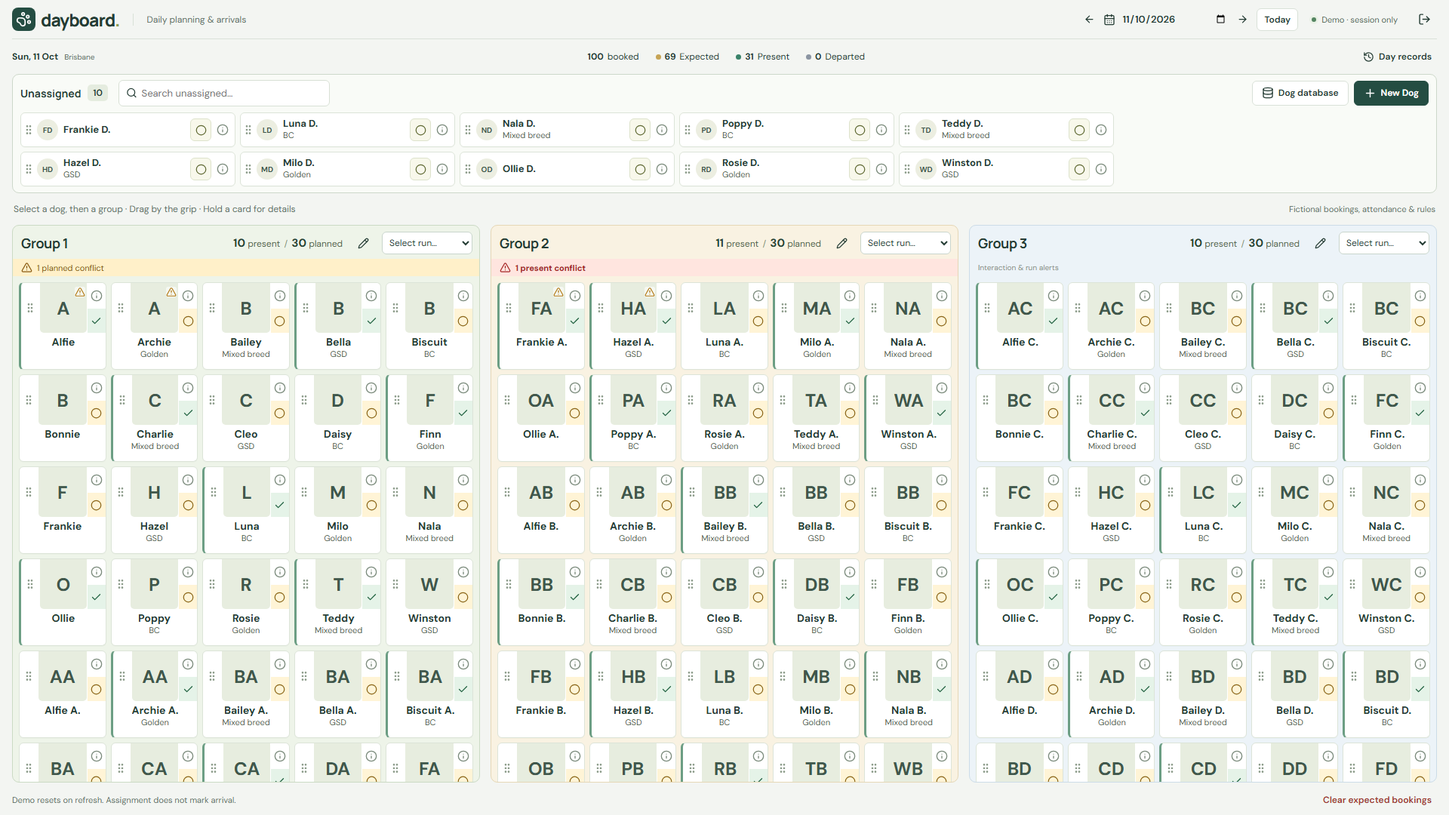
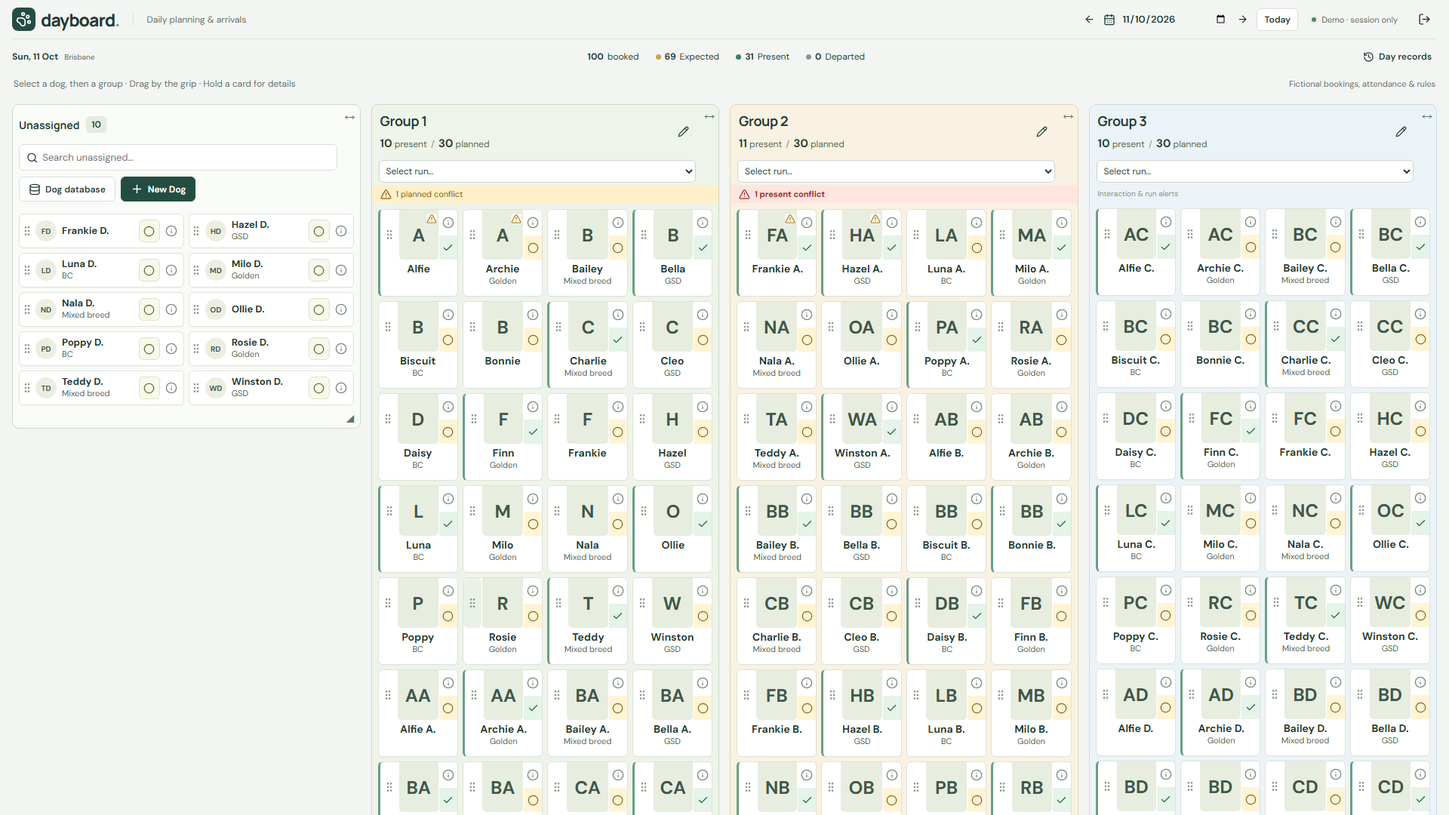
Add resizable desktop panels with automatic card reflow

diff --git a/src/Planner.tsx b/src/Planner.tsx
@@ -22,6 +22,7 @@ import { DogEditor } from './components/DogEditor';
 import { PhotoEditor } from './components/PhotoEditor';
 import { matchesDog, shortDogNames } from './dogLabels';
 import { GroupLane } from './components/GroupLane';
+import { PanelResize, usePanelSizes } from './components/PanelResize';
 
 function DestinationTab({ id, name, active, moving, choose, summary }: {
   id: string; name: string; active: boolean; moving: boolean; choose: () => void; summary: string;
@@ -33,13 +34,13 @@ function DestinationTab({ id, name, active, moving, choose, summary }: {
     <span>{name}</span><small>{summary}</small>
   </button>;
 }
-function Unassigned({ count, search, setSearch, selected, move, children, tools }: {
+function Unassigned({ count, search, setSearch, selected, move, children, tools, resize, style }: {
   count: number; search: string; setSearch: (s: string) => void; selected: boolean;
-  move: () => void; children: ReactNode; tools: ReactNode;
+  move: () => void; children: ReactNode; tools: ReactNode; resize: ReactNode; style: CSSProperties;
 }) {
   const { setNodeRef, isOver } = useDroppable({ id: 'unassigned' });
   return <section ref={setNodeRef} className={`unassigned ${selected ? 'valid-target' : ''} ${isOver ? 'drop-over' : ''}`}
-    data-testid="lane-unassigned" onClick={event => {
+    data-testid="lane-unassigned" data-panel-id="unassigned" style={style} onClick={event => {
       if (selected && !(event.target as HTMLElement).closest('button,input,article')) move();
     }}>
     <div className="unassigned-toolbar">
@@ -52,6 +53,7 @@ function Unassigned({ count, search, setSearch, selected, move, children, tools 
       <div className="directory-tools">{tools}</div>
     </div>
     <div className="unassigned-cards">{children}</div>
+    {resize}
   </section>;
 }
 function Rename({ group, submit, close, editable }: {
@@ -76,6 +78,7 @@ const collision: CollisionDetection = args => {
 
 export function Planner({ repo, onExit }: { repo: Repository; onExit: () => void }) {
   const [date, setDate] = useState(todayBrisbane());
+  const panels = usePanelSizes();
   const { snapshot: state, profile, connection, busy, error, setError, run, refresh, editable } = usePlanner(repo, date);
   const [view, setView] = useState('group-1');
   const [search, setSearch] = useState('');
@@ -196,49 +199,53 @@ export function Planner({ repo, onExit }: { repo: Repository; onExit: () => void
       <DndContext sensors={sensors} collisionDetection={collision}
         onDragStart={event => { setSelection(null); setDrag(state.assignments.find(a => a.id === event.active.id) || null); }}
         onDragCancel={() => setDrag(null)} onDragEnd={onDrop}>
-        <Unassigned count={totals.unassigned} search={search} setSearch={setSearch} selected={!!selection && editable}
-          move={() => { if (selection) void move(selection, null); }}
-          tools={<><button onClick={() => setDatabase(true)}><Database size={16}/>Dog database</button>
-            <button className="primary" disabled={!editable} onClick={() => setEditor({})}><Plus size={17}/>New Dog</button></>}>
-          {cards(null)}
-        </Unassigned>
-        <div className={`selection-bar ${selection ? 'has-selection' : ''}`}>
-          <span>{selection ? <><strong>{selectedName}</strong> selected · choose a destination</> : 'Select a dog, then a group · Drag by the grip · Hold a card for details'}</span>
-          {selection && <button className="text-button" aria-label="Cancel selection" onClick={() => setSelection(null)}><X size={14}/>Cancel</button>}
-          <small>{repo.demo ? 'Fictional bookings, attendance & rules' : 'Synthetic pilot · no real records'}</small>
+        <div className="lane-layout" ref={panels.layoutRef} style={panels.columns(['unassigned', ...state.groups.map(g => g.group_id)])}>
+          <Unassigned style={panels.style('unassigned')} resize={<><PanelResize id="unassigned" name="Unassigned" resize={panels.resize}/><PanelResize id="unassigned" name="Unassigned" resize={panels.resize} widthOnly/></>} count={totals.unassigned} search={search} setSearch={setSearch} selected={!!selection && editable}
+            move={() => { if (selection) void move(selection, null); }}
+            tools={<><button onClick={() => setDatabase(true)}><Database size={16}/>Dog database</button>
+              <button className="primary" disabled={!editable} onClick={() => setEditor({})}><Plus size={17}/>New Dog</button></>}>
+            {cards(null)}
+          </Unassigned>
+          <div className={`selection-bar ${selection ? 'has-selection' : ''}`}>
+            <span>{selection ? <><strong>{selectedName}</strong> selected · choose a destination</> : 'Select a dog, then a group · Drag by the grip · Hold a card for details'}</span>
+            {selection && <button className="text-button" aria-label="Cancel selection" onClick={() => setSelection(null)}><X size={14}/>Cancel</button>}
+            <small>{repo.demo ? 'Fictional bookings, attendance & rules' : 'Synthetic pilot · no real records'}</small>
+          </div>
+          <nav className={`group-tabs ${selection || drag ? 'moving' : ''}`} aria-label="Group views and destinations">
+            <DestinationTab id="unassigned" name="Unassigned" active={view === 'unassigned'} moving={!!selection || !!drag}
+              summary={String(totals.unassigned)} choose={() => selection ? void move(selection, null) : setView('unassigned')}/>
+            {state.groups.map(g => {
+              const c = groupCounts(state.assignments, g.group_id);
+              return <DestinationTab key={g.group_id} id={g.group_id} name={g.displayed_name} active={view === g.group_id}
+                moving={!!selection || !!drag} summary={`${c.present} / ${c.planned}`}
+                choose={() => selection ? void move(selection, g.group_id) : setView(g.group_id)}/>;
+            })}
+          </nav>
+          <main className={`group-board ${view === 'unassigned' ? 'view-unassigned' : ''}`}
+            style={{ '--group-count': state.groups.length } as CSSProperties}>
+            {state.groups.map(g => {
+              const c = groupCounts(state.assignments, g.group_id);
+              return <div key={g.group_id} className={`group-wrapper ${view === g.group_id ? 'current-view' : ''}`} data-panel-id={g.group_id} style={panels.style(g.group_id)}>
+                <GroupLane id={g.group_id} name={g.displayed_name} order={g.display_order} present={c.present} planned={c.planned}
+                  selected={!!selection && editable} dragging={!!drag} destination={() => { if (selection) void move(selection, g.group_id); }}
+                  rename={manager && editable ? () => setRename(rename === g.group_id ? null : g.group_id) : undefined}
+                  warnings={[...groupConflicts(state.assignments, g.group_id, rules), ...runWarnings(state.assignments, state.dogs, g)]}
+                  showWarnings={() => setAlertGroup(g.group_id)}
+                  runSelector={<select className="run-select" aria-label={`Run for ${g.displayed_name}`} value={g.run || ''} disabled={!editable}
+                    onChange={e => void run(() => repo.assignRun(state.day.id, g.group_id, (e.target.value || null) as Run | null, g.run_version || 1))}>
+                    <option value="">Select run…</option>{runs.map(r => <option key={r}>{r}</option>)}
+                  </select>}
+                  editor={rename === g.group_id ? <Rename group={g} editable={editable} close={() => setRename(null)}
+                    submit={(name, future) => run(() => repo.rename(state.day.id, g.group_id, name, future))}/> : undefined}>
+                  {cards(g.group_id)}
+                </GroupLane>
+                <PanelResize id={g.group_id} name={g.displayed_name} resize={panels.resize}/>
+                <PanelResize id={g.group_id} name={g.displayed_name} resize={panels.resize} widthOnly/>
+              </div>;
+            })}
+            <p className="unassigned-view-note">Choose a dog in the strip above, then tap its destination. Swipe the strip to see more bookings.</p>
+          </main>
         </div>
-        <nav className={`group-tabs ${selection || drag ? 'moving' : ''}`} aria-label="Group views and destinations">
-          <DestinationTab id="unassigned" name="Unassigned" active={view === 'unassigned'} moving={!!selection || !!drag}
-            summary={String(totals.unassigned)} choose={() => selection ? void move(selection, null) : setView('unassigned')}/>
-          {state.groups.map(g => {
-            const c = groupCounts(state.assignments, g.group_id);
-            return <DestinationTab key={g.group_id} id={g.group_id} name={g.displayed_name} active={view === g.group_id}
-              moving={!!selection || !!drag} summary={`${c.present} / ${c.planned}`}
-              choose={() => selection ? void move(selection, g.group_id) : setView(g.group_id)}/>;
-          })}
-        </nav>
-        <main className={`group-board ${view === 'unassigned' ? 'view-unassigned' : ''}`}
-          style={{ '--group-count': state.groups.length } as CSSProperties}>
-          {state.groups.map(g => {
-            const c = groupCounts(state.assignments, g.group_id);
-            return <div key={g.group_id} className={`group-wrapper ${view === g.group_id ? 'current-view' : ''}`}>
-              <GroupLane id={g.group_id} name={g.displayed_name} order={g.display_order} present={c.present} planned={c.planned}
-                selected={!!selection && editable} dragging={!!drag} destination={() => { if (selection) void move(selection, g.group_id); }}
-                rename={manager && editable ? () => setRename(rename === g.group_id ? null : g.group_id) : undefined}
-                warnings={[...groupConflicts(state.assignments, g.group_id, rules), ...runWarnings(state.assignments, state.dogs, g)]}
-                showWarnings={() => setAlertGroup(g.group_id)}
-                runSelector={<select className="run-select" aria-label={`Run for ${g.displayed_name}`} value={g.run || ''} disabled={!editable}
-                  onChange={e => void run(() => repo.assignRun(state.day.id, g.group_id, (e.target.value || null) as Run | null, g.run_version || 1))}>
-                  <option value="">Select run…</option>{runs.map(r => <option key={r}>{r}</option>)}
-                </select>}
-                editor={rename === g.group_id ? <Rename group={g} editable={editable} close={() => setRename(null)}
-                  submit={(name, future) => run(() => repo.rename(state.day.id, g.group_id, name, future))}/> : undefined}>
-                {cards(g.group_id)}
-              </GroupLane>
-            </div>;
-          })}
-          <p className="unassigned-view-note">Choose a dog in the strip above, then tap its destination. Swipe the strip to see more bookings.</p>
-        </main>
         <DragOverlay style={{ pointerEvents: 'none' }}>{drag && <div className="drag-preview"><Avatar dog={dogsById.get(drag.dog_id)!}/><strong>{dogsById.get(drag.dog_id)!.name}</strong><span>{drag.attendance_status}</span></div>}</DragOverlay>
       </DndContext>}
     <footer className="planner-footer"><span>{repo.demo ? 'Demo resets on refresh.' : 'Synthetic shared pilot.'} Assignment does not mark arrival.</span>

diff --git a/tests/e2e/panels.spec.ts b/tests/e2e/panels.spec.ts
@@ -1,0 +1,87 @@
+import { test, expect } from '@playwright/test';
+import { mkdir } from 'node:fs/promises';
+async function open(page: import('@playwright/test').Page, scenario='planned') {
+  await page.setViewportSize({width:1920,height:1080});
+  await page.goto('/'); await page.getByLabel('Demo scenario').selectOption(scenario);
+  await page.getByRole('button',{name:'Explore the demo'}).click();
+  await expect(page.getByTestId('booked-count')).toHaveText('100');
+}
+const geometry = (page: import('@playwright/test').Page) => page.evaluate(() => {
+  const panels=[...document.querySelectorAll<HTMLElement>('[data-panel-id]')];
+  return panels.map(p=>{const r=p.getBoundingClientRect(); const cards=[...p.querySelectorAll('.dog-card')].map(c=>c.getBoundingClientRect()); const grid=p.querySelector('.group-grid,.unassigned-cards')!;
+    return {id:p.dataset.panelId,width:r.width,left:r.left,right:r.right,height:r.height,bottom:r.bottom,columns:new Set(cards.map(c=>Math.round(c.left))).size,allInside:cards.every(c=>c.bottom<=r.bottom&&c.left>=r.left&&c.right<=r.right),overflow:getComputedStyle(grid).overflowY};});
+});
+test('desktop pointer resizing redistributes space, wraps cards and retains every dog',async({page})=>{
+  await open(page);
+  const before=await geometry(page);
+  const handle=page.getByRole('button',{name:'Resize width of Group 1',exact:true});
+  const box=(await handle.boundingBox())!;
+  await page.mouse.move(box.x+10,box.y+10); await page.mouse.down();
+  await page.mouse.move(box.x+340,box.y+10,{steps:12}); await page.mouse.up();
+  const after=await geometry(page);
+  expect(after[1].width).toBeGreaterThan(before[1].width+250);
+  expect(after[1].columns).toBeGreaterThan(before[1].columns);
+  for(const i of [0,2,3]) expect(after[i].width).toBeLessThan(before[i].width);
+  for(let i=1;i<after.length;i++) expect(after[i].left).toBeGreaterThanOrEqual(after[i-1].right);
+  expect(after.every(p=>p.allInside&&p.overflow==='visible')).toBe(true);
+  expect(await page.locator('.dog-card').count()).toBe(100);
+  expect(await page.evaluate(()=>document.documentElement.scrollWidth<=innerWidth)).toBe(true);
+  await mkdir('docs/screenshots',{recursive:true});
+  await page.screenshot({path:'docs/screenshots/resizable-desktop.png',fullPage:true});
+});
+test('Unassigned grows downwards and page scrolling exposes every booking',async({page})=>{
+  await open(page,'morning');
+  const before=(await geometry(page))[0];
+  expect(before.allInside).toBe(true); expect(before.height).toBeGreaterThan(2000);
+  expect(await page.evaluate(()=>document.documentElement.scrollHeight>innerHeight)).toBe(true);
+  const handle=page.getByRole('button',{name:'Resize width of Unassigned',exact:true});
+  await handle.focus(); await page.keyboard.press('ArrowRight');
+  expect((await geometry(page))[0].width).toBeGreaterThan(before.width);
+  await page.getByLabel('Search unassigned dogs').fill('Alfie');
+  const small=(await geometry(page))[0];
+  expect(small.height).toBeLessThan(before.height);
+  await page.getByLabel('Search unassigned dogs').fill('');
+  expect((await geometry(page))[0].height).toBeGreaterThan(small.height);
+  await page.getByTestId('lane-unassigned').locator('.dog-card').last().scrollIntoViewIfNeeded();
+  await expect(page.getByTestId('lane-unassigned').locator('.dog-card').last()).toBeVisible();
+  expect(await page.evaluate(()=>scrollY)).toBeGreaterThan(0);
+});
+test('vertical resizing sets a floor while additional dogs automatically extend a group',async({page})=>{
+  await open(page,'morning');
+  const handle=page.getByRole('button',{name:'Resize Group 1',exact:true});
+  const initial=(await geometry(page))[1].height;
+  await handle.focus(); await page.keyboard.press('ArrowDown');
+  expect((await geometry(page))[1].height).toBeGreaterThanOrEqual(initial+31);
+  for(const name of ['Alfie','Archie','Bella','Biscuit','Bonnie','Charlie','Cleo','Daisy','Finn','Frankie']) {
+    await page.getByRole('button',{name:'Select '+name,exact:true}).click();
+    await page.getByRole('button',{name:'Move selected dog to Group 1',exact:true}).click();
+  }
+  const group=(await geometry(page))[1]; expect(group.height).toBeGreaterThan(initial+32); expect(group.allInside).toBe(true);
+  await expect(page.getByTestId('present-count')).toHaveText('0');
+});
+test('desktop resize preferences do not affect mobile tabs and horizontal strip',async({page})=>{
+  await open(page);
+  await page.getByRole('button',{name:'Resize Group 1',exact:true}).focus(); await page.keyboard.press('ArrowRight');
+  await page.setViewportSize({width:390,height:844});
+  await expect(page.locator('.panel-resize:visible')).toHaveCount(0);
+  await expect(page.getByRole('navigation',{name:'Group views and destinations'})).toBeVisible();
+  expect(await page.getByTestId('lane-unassigned').evaluate(p=>getComputedStyle(p.querySelector('.unassigned-cards')!).gridAutoFlow)).toBe('column');
+  expect(await page.evaluate(()=>document.documentElement.scrollWidth<=innerWidth)).toBe(true);
+  await page.getByRole('button',{name:'Select Archie',exact:true}).click();
+  await page.getByRole('button',{name:'Send selected dog to Group 2',exact:true}).click();
+  await expect(page.getByTestId('lane-group-2').getByTestId('card-Archie')).toBeVisible();
+});
+
+test('extreme resizing and smaller desktop windows preserve bounds and card placements',async({page})=>{
+  await open(page,'four');
+  const handle=page.getByRole('button',{name:'Resize width of Group 1',exact:true});
+  await handle.focus();
+  for(let i=0;i<35;i++) await page.keyboard.press('ArrowRight');
+  for(const width of [1920,1100,900,761]) {
+    await page.setViewportSize({width,height:1080});
+    expect(await page.evaluate(()=>document.documentElement.scrollWidth<=innerWidth)).toBe(true);
+    const panels=await geometry(page); expect(panels.every(p=>p.allInside)).toBe(true);
+    for(let i=1;i<panels.length;i++) expect(panels[i].left).toBeGreaterThanOrEqual(panels[i-1].right);
+    await expect(page.locator('.dog-card')).toHaveCount(100);
+  }
+});

diff --git a/src/components/PanelResize.tsx b/src/components/PanelResize.tsx
@@ -1,0 +1,60 @@
+import { useRef, useState } from 'react';
+import type { CSSProperties } from 'react';
+
+// Widths belong to this browser's board view, never to shared dog placements.
+export function usePanelSizes() {
+  const layoutRef = useRef<HTMLDivElement>(null);
+  const [widths, setWidths] = useState<Record<string, number>>({});
+  const [heights, setHeights] = useState<Record<string, number>>({});
+  const resize = (id: string, dx: number, dy: number, initial?: { widths: number[]; height: number }) => {
+    const layout = layoutRef.current;
+    if (!layout) return;
+    const panels = Array.from(layout.querySelectorAll<HTMLElement>('[data-panel-id]'));
+    const index = panels.findIndex(panel => panel.dataset.panelId === id);
+    if (index < 0) return;
+    const current = initial?.widths || panels.map(panel => panel.getBoundingClientRect().width);
+    const total = current.reduce((sum, width) => sum + width, 0);
+    const minimum = Math.min(180, total / panels.length);
+    const target = Math.max(minimum, Math.min(total - minimum * (panels.length - 1), current[index] + dx));
+    // Redistribute only the spare space, preserving every neighbour's minimum.
+    const spare = current.reduce((sum, width, i) => sum + (i === index ? 0 : Math.max(0, width - minimum)), 0);
+    const remaining = total - target - minimum * (panels.length - 1);
+    setWidths(Object.fromEntries(panels.map((panel, i) => [panel.dataset.panelId!, i === index ? target : minimum + remaining * (spare ? Math.max(0, current[i] - minimum) / spare : 1 / (panels.length - 1))])));
+    const height = initial?.height ?? panels[index].getBoundingClientRect().height;
+    if (dy) setHeights(previous => ({ ...previous, [id]: Math.max(180, height + dy) }));
+  };
+  const style = (id: string): CSSProperties => ({ '--panel-min-height': heights[id] ? heights[id] + 'px' : undefined } as CSSProperties);
+  const columns = (ids: string[]): CSSProperties => {
+    const existing = Object.values(widths);
+    const fallback = existing.length ? existing.reduce((sum, width) => sum + width, 0) / existing.length : 1;
+    return { '--panel-columns': ids.map(id => `minmax(min(180px, calc((100vw - 32px - ${14 * (ids.length - 1)}px) / ${ids.length})), ${widths[id] || fallback}fr)`).join(' ') } as CSSProperties;
+  };
+  return { layoutRef, resize, style, columns };
+}
+
+export function PanelResize({ id, name, resize, widthOnly = false }: {
+  id: string; name: string; resize: ReturnType<typeof usePanelSizes>['resize']; widthOnly?: boolean;
+}) {
+  const start = useRef<{ x: number; y: number; widths: number[]; height: number } | null>(null);
+  return <button className={`panel-resize ${widthOnly ? 'panel-width-resize' : ''}`} aria-label={`Resize ${widthOnly ? 'width of ' : ''}${name}`}
+    title={widthOnly ? 'Drag sideways to resize width. Left and right arrow keys also resize.' : 'Drag to resize. Arrow keys adjust width and height.'}
+    onClick={event => event.stopPropagation()}
+    onPointerDown={event => {
+      if (event.button !== 0) return;
+      event.preventDefault(); event.stopPropagation();
+      const panel = event.currentTarget.closest<HTMLElement>('[data-panel-id]')!;
+      const layout = panel.closest('.lane-layout')!;
+      start.current = { x: event.clientX, y: event.clientY, widths: Array.from(layout.querySelectorAll<HTMLElement>('[data-panel-id]')).map(p => p.getBoundingClientRect().width), height: panel.getBoundingClientRect().height };
+      event.currentTarget.setPointerCapture(event.pointerId);
+    }}
+    onPointerMove={event => {
+      if (start.current) resize(id, event.clientX - start.current.x, widthOnly ? 0 : event.clientY - start.current.y, start.current);
+    }}
+    onPointerUp={event => { start.current = null; if (event.currentTarget.hasPointerCapture(event.pointerId)) event.currentTarget.releasePointerCapture(event.pointerId); }}
+    onPointerCancel={() => { start.current = null; }}
+    onLostPointerCapture={() => { start.current = null; }}
+    onKeyDown={event => {
+      const steps: Record<string, [number, number]> = { ArrowLeft: [-32, 0], ArrowRight: [32, 0], ArrowUp: [0, -32], ArrowDown: [0, 32] };
+      if (steps[event.key] && (!widthOnly || event.key === 'ArrowLeft' || event.key === 'ArrowRight')) { event.preventDefault(); event.stopPropagation(); resize(id, ...steps[event.key]); }
+    }}><span aria-hidden="true">{widthOnly ? '↔' : '◢'}</span></button>;
+}

diff --git a/src/styles.css b/src/styles.css
@@ -269,3 +269,38 @@ dialog footer { display:flex; justify-content:flex-end; gap:8px; margin-top:20px
   .database-row { flex-wrap:wrap; }
   .database-row strong { flex-basis:calc(100% - 45px); }
 }
+
+
+
+/* Desktop panels share the available width and grow with their contents. */
+.lane-layout { display:contents; }
+.panel-resize { display:none; }
+@media(min-width:761px) {
+  .planner-shell { height:auto; min-height:100dvh; }
+  .lane-layout { display:grid; grid-template-columns:var(--panel-columns); gap:14px; align-items:start; flex:1; }
+  .lane-layout > .selection-bar { grid-column:1 / -1; grid-row:1; }
+  .lane-layout > .unassigned, .lane-layout .group-wrapper { grid-row:2; min-width:0; position:relative; min-height:var(--panel-min-height, 240px); }
+  .lane-layout > .unassigned { grid-column:1; padding-bottom:22px; }
+  .lane-layout > .group-board { display:contents; }
+  .lane-layout .group-lane { height:auto; min-height:var(--panel-min-height, 240px); padding-bottom:22px; }
+  .lane-layout .group-grid, .lane-layout .unassigned-cards { grid-auto-flow:row; grid-template-rows:none; grid-auto-columns:auto; overflow:visible; min-height:0; align-content:start; }
+  .lane-layout .group-grid { grid-template-columns:repeat(auto-fit,minmax(min(100%,100px),1fr)); }
+  .lane-layout .unassigned-cards { grid-template-columns:repeat(auto-fit,minmax(min(100%,210px),1fr)); padding:8px; }
+  .lane-layout .strip-empty { grid-column:1 / -1; grid-row:auto; width:auto; max-width:100%; padding:12px 0; }
+  .lane-layout .unassigned-toolbar { flex-wrap:wrap; gap:8px; padding:8px; }
+  .lane-layout .unassigned .search { width:100%; }
+  .lane-layout .directory-tools { flex-wrap:wrap; margin-left:0; }
+  .lane-layout .group-heading { flex-wrap:wrap; }
+  .lane-layout .group-destination { flex-direction:column; align-items:flex-start; }
+  .lane-layout .run-select { width:100%; }
+  .lane-layout .warning-bar { height:auto; min-height:23px; }
+  .panel-resize { display:flex; position:absolute; right:2px; bottom:2px; width:22px; height:20px; min-height:20px; padding:0; border:0; background:transparent; color:#637369; cursor:nwse-resize; touch-action:none; user-select:none; z-index:2; }
+  .panel-resize:hover { background:#ffffffaa; }
+}
+
+@media(min-width:761px) {
+  .lane-layout .group-heading, .lane-layout .unassigned-toolbar { padding-right:30px; }
+  .panel-width-resize { top:5px; bottom:auto; cursor:ew-resize; }
+}
+
+@media(min-width:761px) { .lane-layout .indicator-slot:empty { display:none; } }

diff --git a/docs/WORKFLOW.md b/docs/WORKFLOW.md
@@ -50,9 +50,10 @@ This iteration has deterministic, explicitly fictional pair rules and handling n
 
 ### Layout
 
-- Compact top area: unassigned-only search, separate database search/access, visible **+ New Dog**, and an unassigned card strip.
-- Three tall side-by-side group columns on desktop. Render from group data; support a fourth without hardcoded UI branches.
-- Responsive photo-first tile grids: five columns per group at 1920px with three groups, two columns at 390px. Legible short names, optional compact breed labels, warning/marker icons, arrival action and visible selection/drag states. Full names/breeds remain in details; repeated short names gain an initial and, if needed, a stable numbered suffix.
+- Desktop: Unassigned and the groups sit side by side. Each panel has a top width handle and a bottom corner handle, with arrow-key resizing. Widening a panel redistributes available space among its neighbours, with minimum widths to prevent overlap. Width and minimum-height choices belong to the current browser session, not the shared plan.
+- Panels automatically grow downward to fit all dogs; scroll the entire page rather than scrolling inside desktop lanes. Cards wrap into as many columns as the panel fits. Reducing height cannot hide dogs. Render from group data; support a fourth without hardcoded UI branches.
+- Unassigned retains its own search, separate database access and visible **+ New Dog**. Phones retain the horizontal card strip and group tabs with no resize controls.
+- Responsive photo-first group tiles reflow with panel widths; Unassigned retains compact cards. Legible short names, compact breed labels, warning/marker icons, arrival actions and selection/drag states remain. Full names and breeds stay available in details, and repeated short names remain distinguishable.
 - Compact headings with group name, Present / Planned counts and warning area.
 - Target at least approximately 70 fully visible group cards at 1920 × 1080 and 100% zoom. Measure card rectangles, not a visual impression. No forced zoom.
 - Phones around 390px use group switching and a persistent destination chooser when selected/dragging; Unassigned remains readily reachable. Same operations remain available.

diff --git a/docs/DESKTOP-PANELS.md b/docs/DESKTOP-PANELS.md
@@ -1,0 +1,11 @@
+# Desktop panel resizing
+
+Unassigned and all groups share a desktop row above 760px. Drag the small width handle at the top right of a box, or its bottom corner. Focus a handle and use arrow keys for keyboard resizing. Increasing width reduces neighbouring widths within the available page space; minimum widths prevent overlap and remain bounded when the window shrinks.
+
+Cards reflow automatically. Panels grow downward to show every active dog, and the whole page scrolls. A manually enlarged height is a minimum only: adding dogs can always extend the panel. Controls never clip dogs or add a nested desktop scrollbar. Width handles stay reachable at the top of tall panels.
+
+These preferences last for the open planner session, survive date changes and do not write to Supabase or change other staff views. Reloading resets the layout. At 760px or less the existing mobile strip, tabs and touch interactions remain, and resize handles are hidden.
+
+Validation on 11 October 2026: TypeScript/build, PWA offline-shell checks, 63 local tests and all 20 Chromium workflow tests passed. Five panel checks cover pointer and keyboard resizing, neighbour redistribution, card reflow, growth/page scrolling, unchanged attendance through moves, mobile switching, four-group data and extreme widths at 1920, 1100, 900 and 761px. The standard 1920×1080 board showed 72 complete group cards at normal zoom with no horizontal overflow. Browser checks used fictional demo data. The integration preserves the latest photo-first tiles, breed labels and staff photo controls. Physical-device testing remains unverified.
+
+Screenshots: [default desktop](screenshots/desktop-1920.png), [resized desktop](screenshots/resizable-desktop.png).
